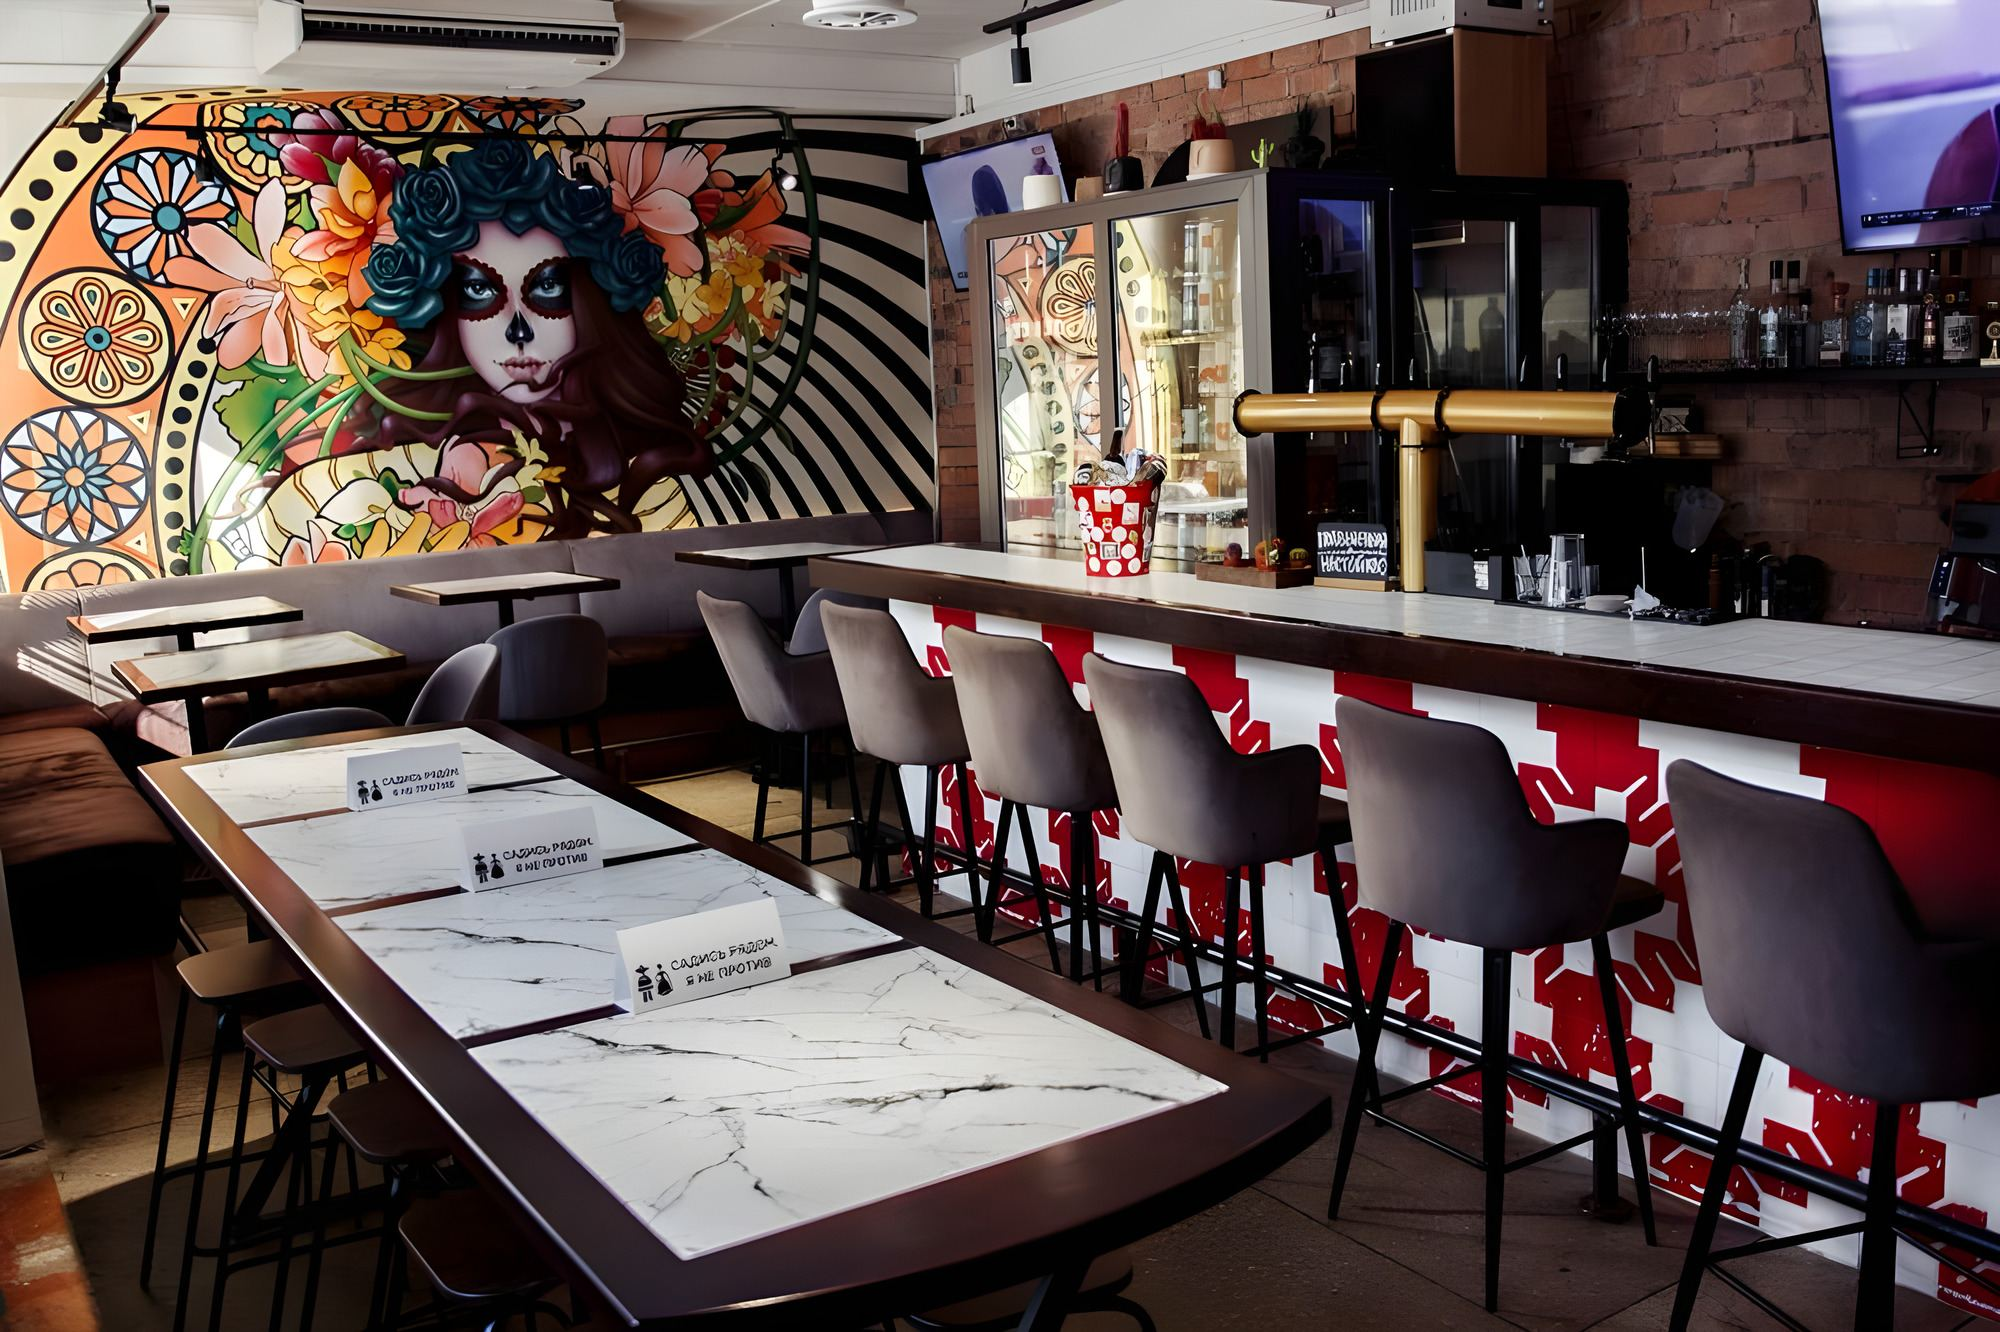
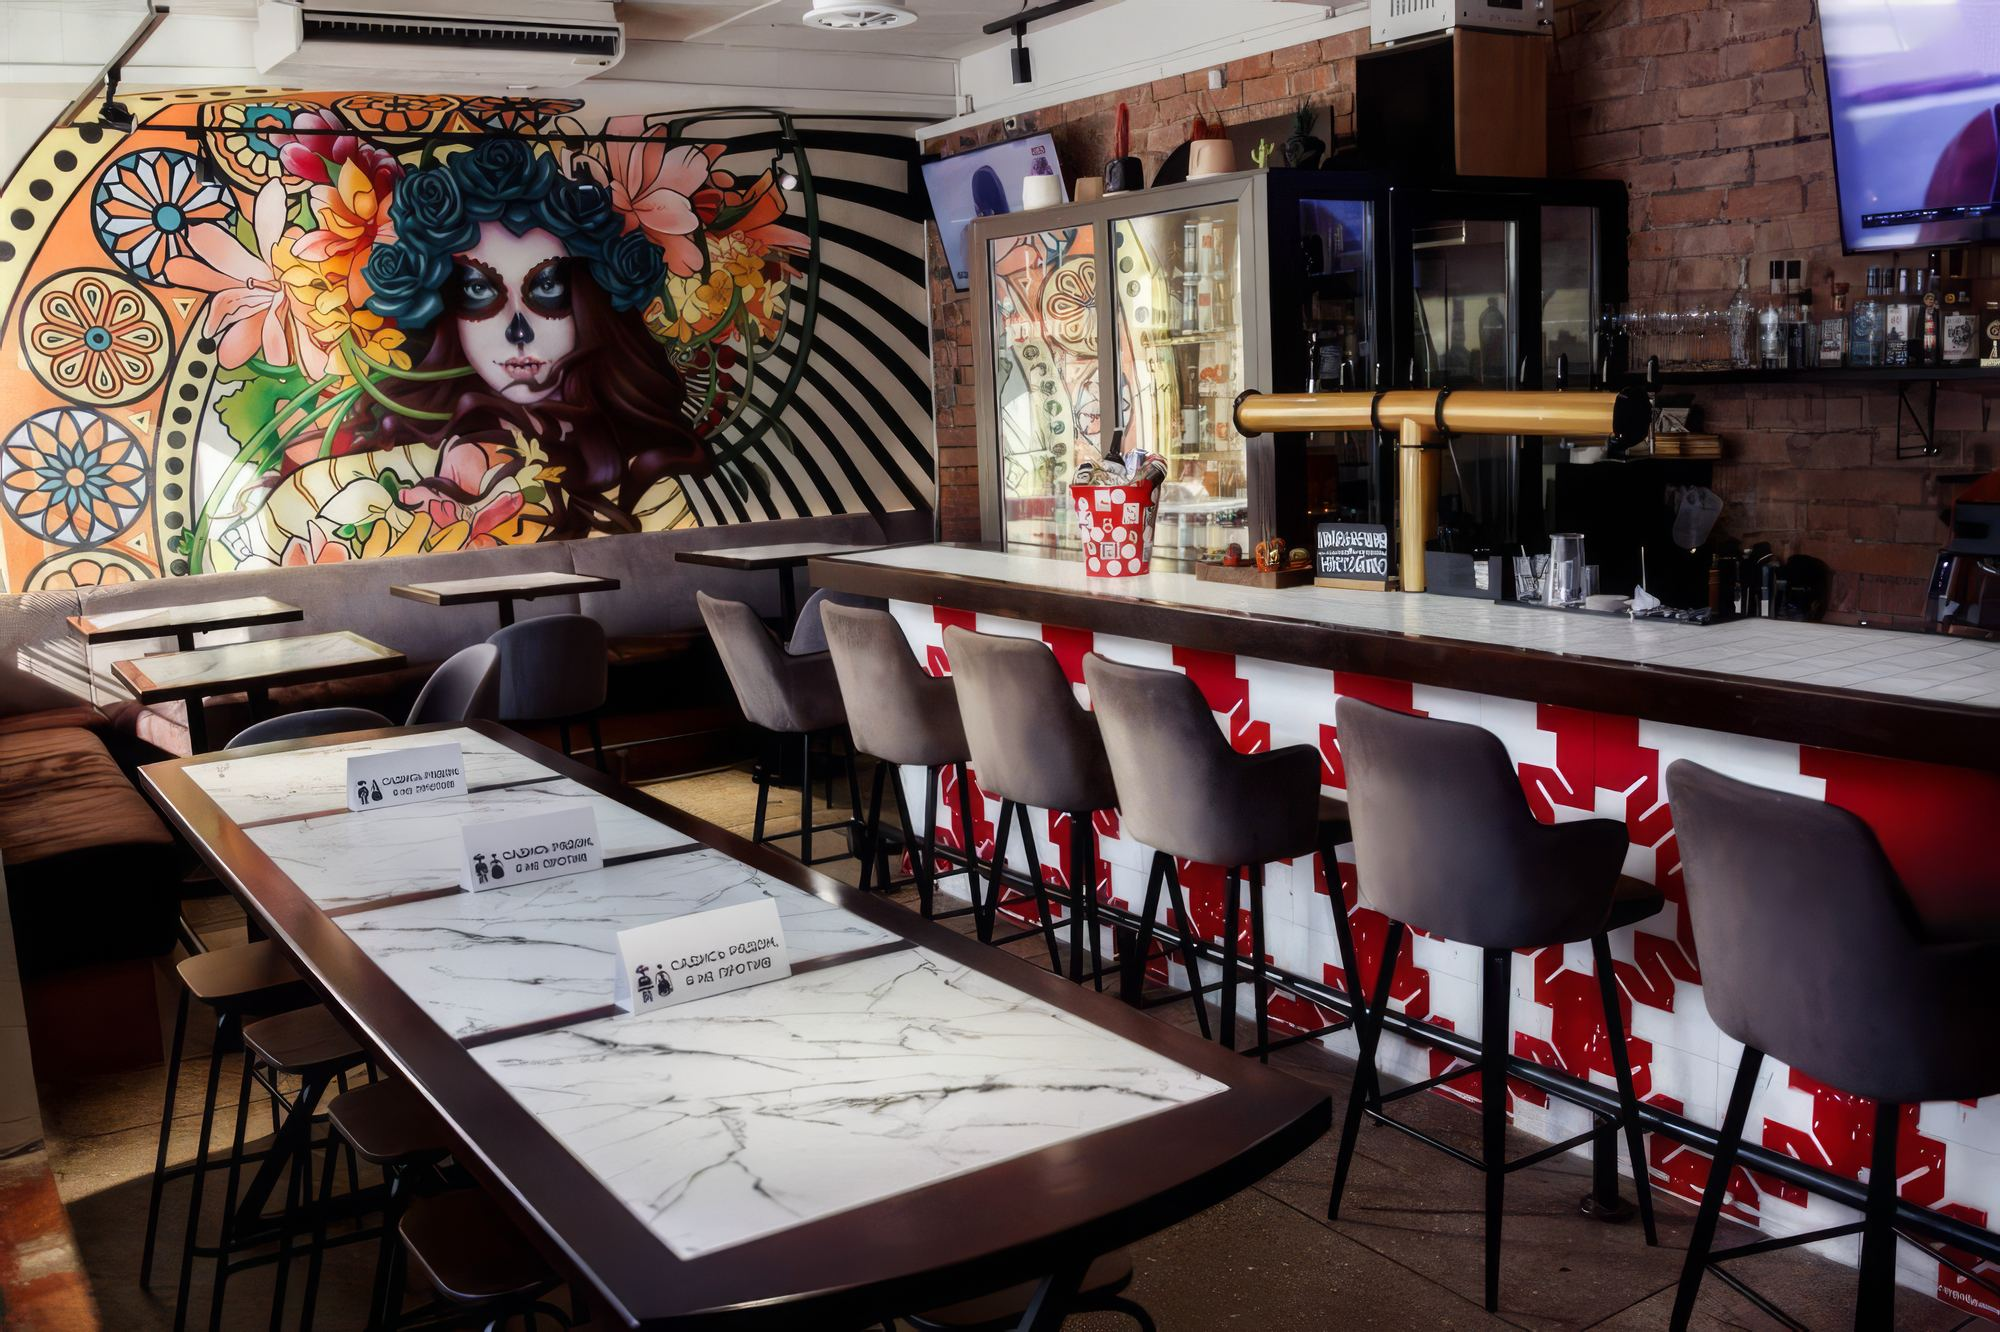
Выкладка 28.09.2026 12:02

diff --git a/index.html b/index.html
@@ -73,7 +73,7 @@
 <section class="hero">
   <div class="hero__media">
     <img src="img/vk/vk-17.jpg?v=bc122633"
-         srcset="img/vk/vk-17.jpg?v=bc122633 1000w, img/vk/vk-17@2x.jpg?v=7cd013b9 2000w"
+         srcset="img/vk/vk-17.jpg?v=bc122633 1000w, img/vk/vk-17@2x.jpg?v=cf2688ac 2000w, img/vk/vk-17@4x.jpg?v=ea090ac2 4000w"
          sizes="100vw" width="2000" height="1332"
          alt="Зал гастропаба «Пабло»: роспись с Катриной, барная стойка и столики" fetchpriority="high">
   </div>
